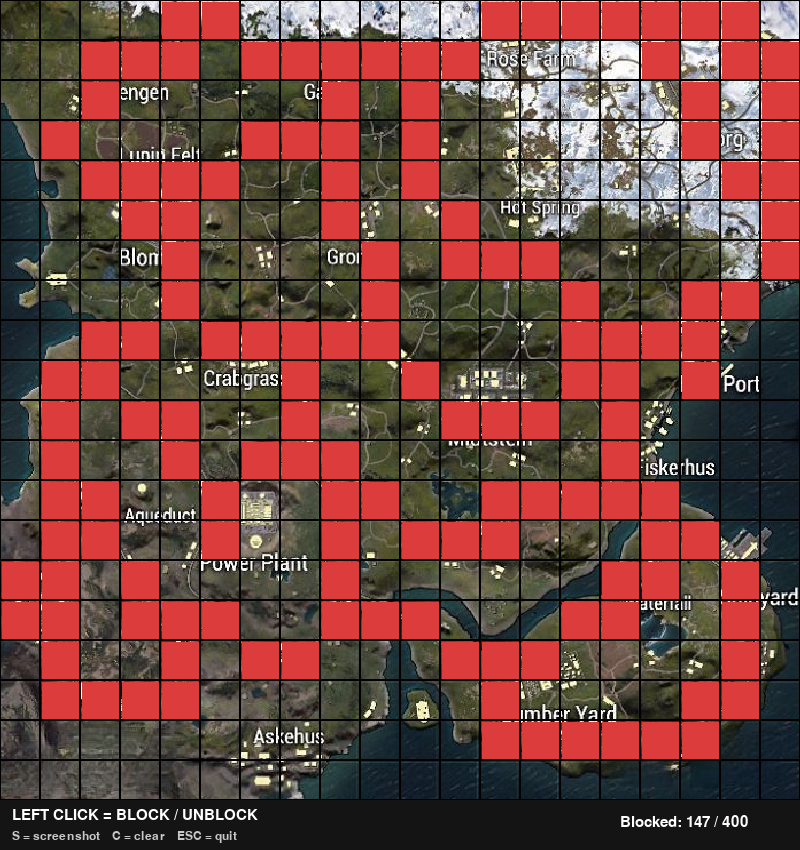
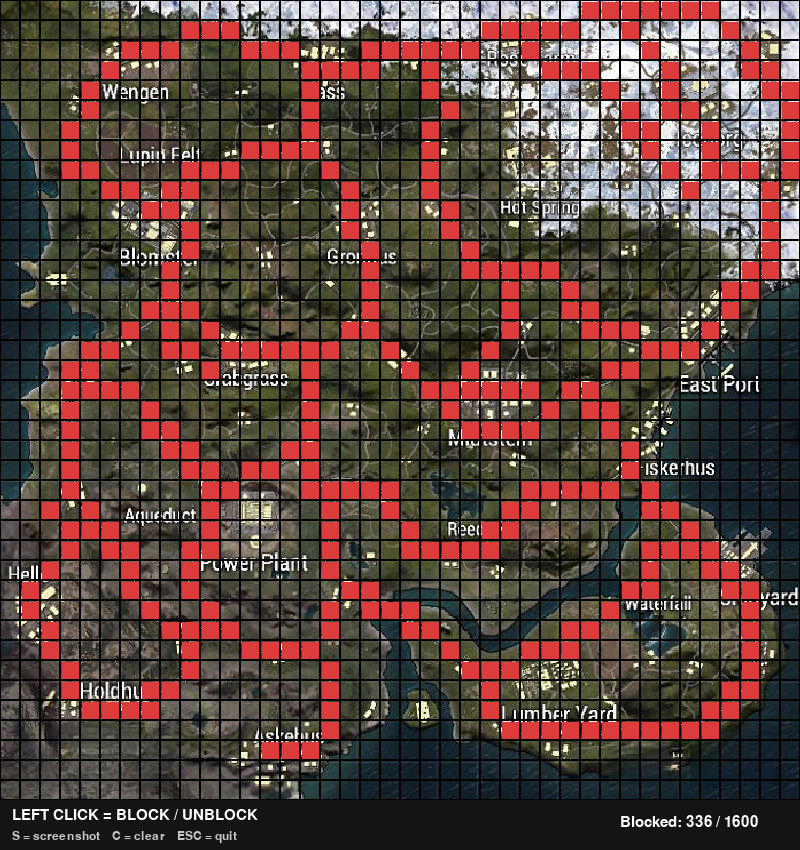
extracting the road cells on a 40*40 map and marking the routes

diff --git a/main/app_road_marker.py b/main/app_road_marker.py
@@ -28,8 +28,8 @@ map_image = pygame.transform.scale(map_image, (WIDTH, MAP_HEIGHT))
 # 20 x 20 grid
 # ------------------------------------------------------------
 
-ROWS = 20
-COLS = 20
+ROWS = 40
+COLS = 40
 CELL_SIZE = WIDTH // COLS
 
 # Cells manually marked as NON-ROAD
